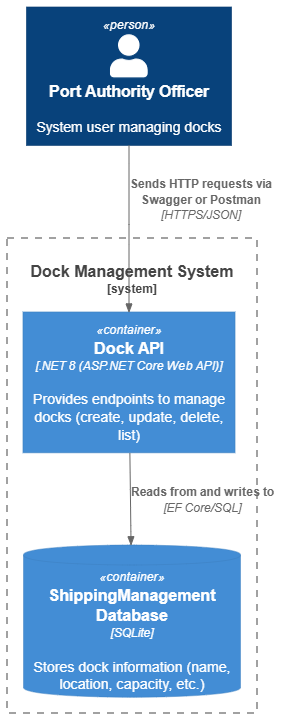
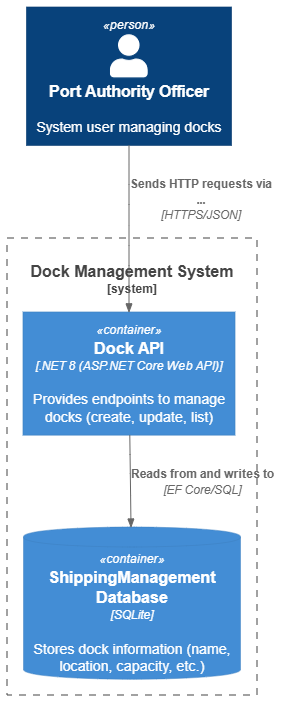
Quick fixes to lvl2 C4 model on us 2.2.1 #2  and 2.2.3 #4

diff --git a/docs/sprintA/us2.2.3/readme.md b/docs/sprintA/us2.2.3/readme.md
@@ -34,3 +34,20 @@ Record Registration
 
 ![System Sequence Diagram ](images/system-sequence-diagram-US2.2.3.png)
 
+## 4. C4 Model
+
+#### Context - Level 1
+
+![Context](images/context_lvl1.png)
+
+#### Containers - Level 2
+
+![Containers](images/containers_lvl2.png)
+
+#### Components - Level 3
+
+![Components](images/components_lvl3.png)
+
+#### Code - Level 4
+
+![Code](images/code_lvl4.png)